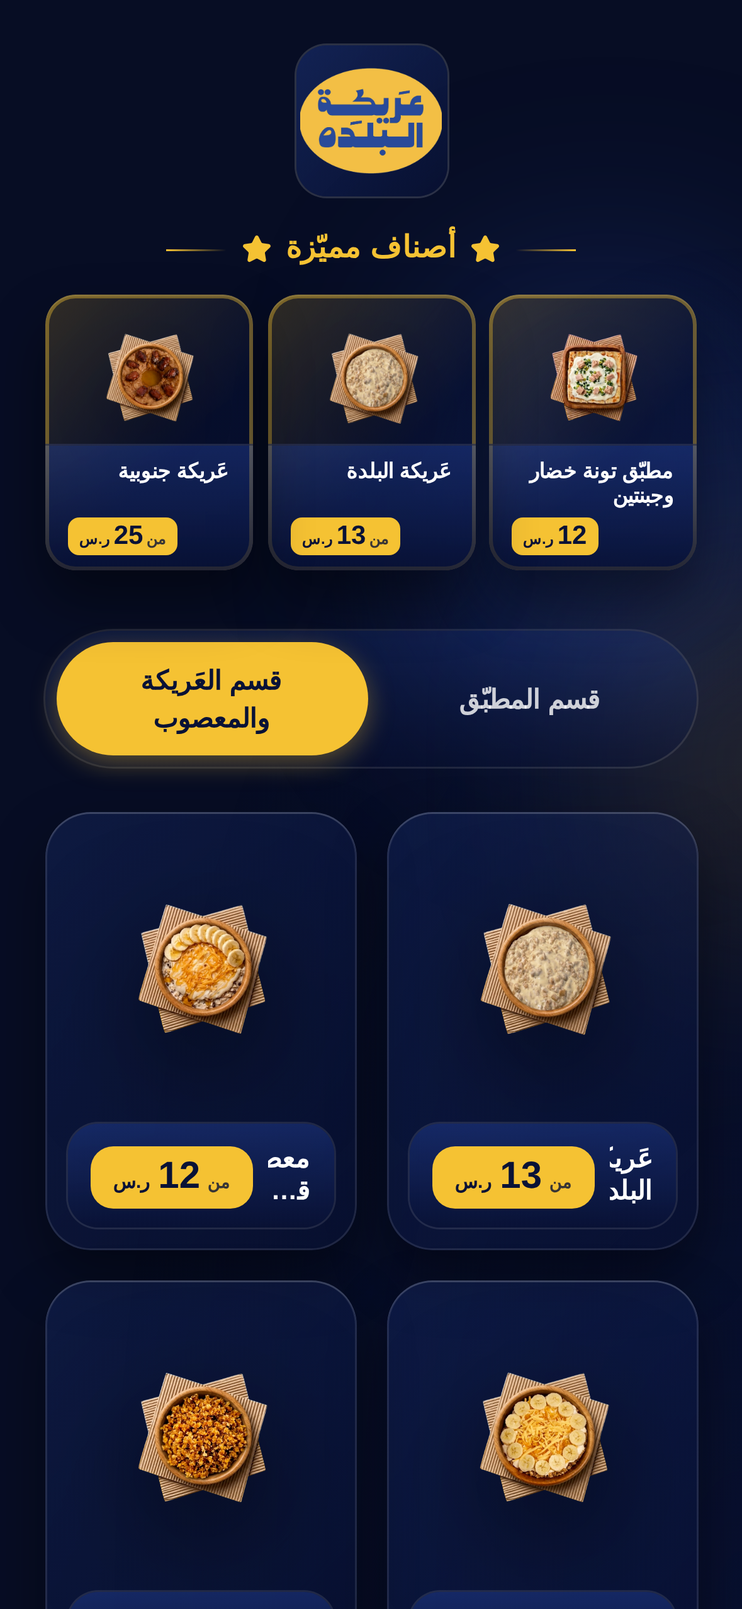
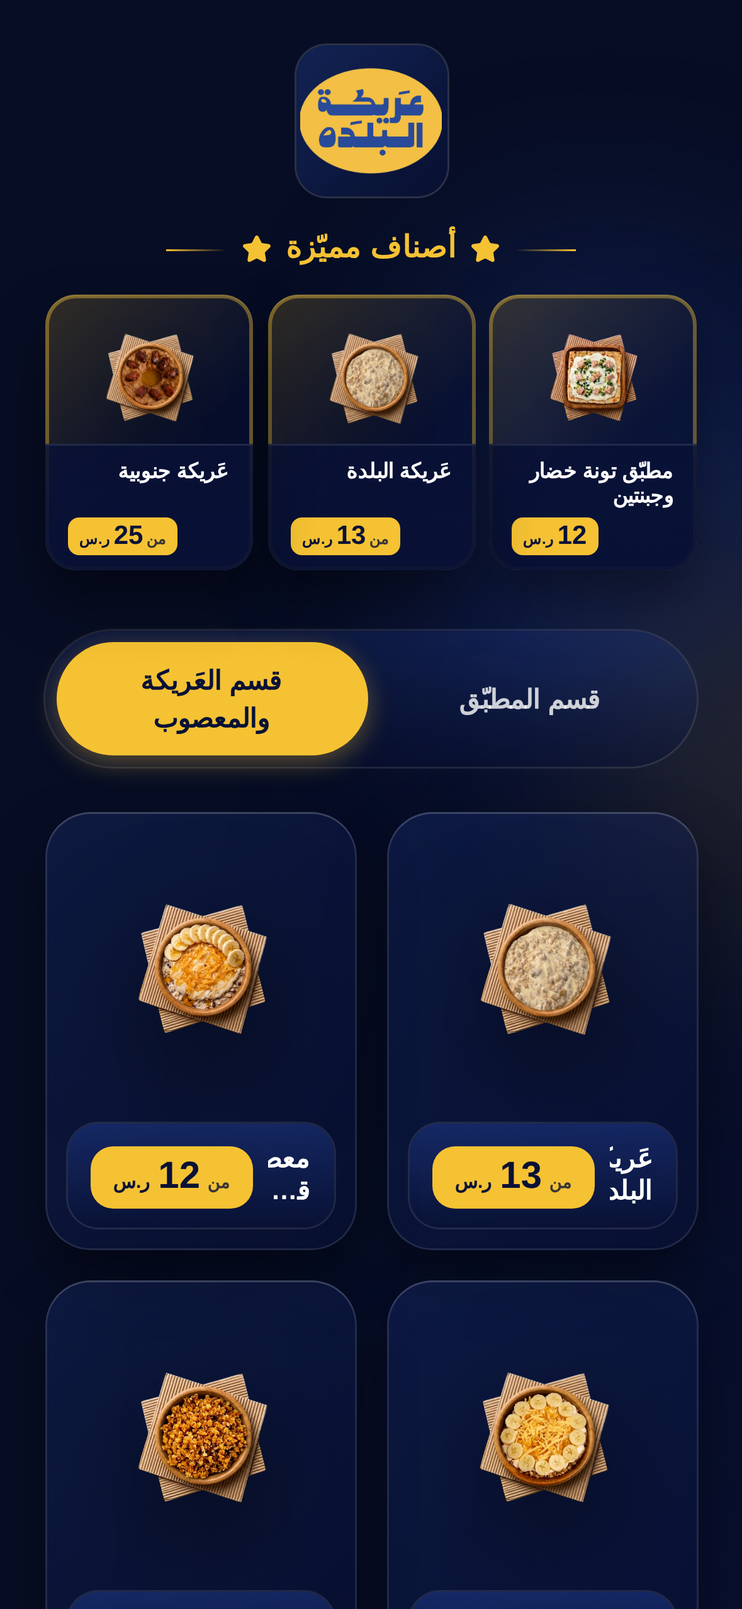
fix(web): featured strip explicitly w-full + much more opaque
The previous fix removed the mx-2/mb-2 margins, but the strip's
gradient was so transparent (rgba(47,85,196,0.32) → rgba(9,18,54,0.70))
that it blended into the card's own gradient. Visually it looked like
the strip only existed where the text/chip sat, with the rest of the
bottom band reading as the underlying card gradient. The user kept
catching this on cards with short names where the empty room was big.

Two-part fix:
- Added explicit w-full on the strip element so its width can never
  be misinterpreted by the flexbox cross-axis algorithm.
- Bumped the strip's background to nearly-opaque deep navy
  (rgba(9,18,54,0.85 → 0.95)). The band now reads as a clearly
  separate, unambiguous full-width footer on every card regardless of
  name length.

Verified with a fresh phone-1366×1024 Playwright capture — all three
featured cards now show an identical dark strip running edge-to-edge.

https://claude.ai/code/session_01Tjv9deCadTK9xL9Nd7REno

Changed region(s): [[0.0611, 0.2782, 0.9466, 0.34]]

diff --git a/docs/assets/index-ChkNGgoA.css b/docs/assets/index-ChkNGgoA.css
@@ -1,0 +1,1 @@
+*,:before,:after{--tw-border-spacing-x: 0;--tw-border-spacing-y: 0;--tw-translate-x: 0;--tw-translate-y: 0;--tw-rotate: 0;--tw-skew-x: 0;--tw-skew-y: 0;--tw-scale-x: 1;--tw-scale-y: 1;--tw-pan-x: ;--tw-pan-y: ;--tw-pinch-zoom: ;--tw-scroll-snap-strictness: proximity;--tw-gradient-from-position: ;--tw-gradient-via-position: ;--tw-gradient-to-position: ;--tw-ordinal: ;--tw-slashed-zero: ;--tw-numeric-figure: ;--tw-numeric-spacing: ;--tw-numeric-fraction: ;--tw-ring-inset: ;--tw-ring-offset-width: 0px;--tw-ring-offset-color: #fff;--tw-ring-color: rgb(59 130 246 / .5);--tw-ring-offset-shadow: 0 0 #0000;--tw-ring-shadow: 0 0 #0000;--tw-shadow: 0 0 #0000;--tw-shadow-colored: 0 0 #0000;--tw-blur: ;--tw-brightness: ;--tw-contrast: ;--tw-grayscale: ;--tw-hue-rotate: ;--tw-invert: ;--tw-saturate: ;--tw-sepia: ;--tw-drop-shadow: ;--tw-backdrop-blur: ;--tw-backdrop-brightness: ;--tw-backdrop-contrast: ;--tw-backdrop-grayscale: ;--tw-backdrop-hue-rotate: ;--tw-backdrop-invert: ;--tw-backdrop-opacity: ;--tw-backdrop-saturate: ;--tw-backdrop-sepia: ;--tw-contain-size: ;--tw-contain-layout: ;--tw-contain-paint: ;--tw-contain-style: }::backdrop{--tw-border-spacing-x: 0;--tw-border-spacing-y: 0;--tw-translate-x: 0;--tw-translate-y: 0;--tw-rotate: 0;--tw-skew-x: 0;--tw-skew-y: 0;--tw-scale-x: 1;--tw-scale-y: 1;--tw-pan-x: ;--tw-pan-y: ;--tw-pinch-zoom: ;--tw-scroll-snap-strictness: proximity;--tw-gradient-from-position: ;--tw-gradient-via-position: ;--tw-gradient-to-position: ;--tw-ordinal: ;--tw-slashed-zero: ;--tw-numeric-figure: ;--tw-numeric-spacing: ;--tw-numeric-fraction: ;--tw-ring-inset: ;--tw-ring-offset-width: 0px;--tw-ring-offset-color: #fff;--tw-ring-color: rgb(59 130 246 / .5);--tw-ring-offset-shadow: 0 0 #0000;--tw-ring-shadow: 0 0 #0000;--tw-shadow: 0 0 #0000;--tw-shadow-colored: 0 0 #0000;--tw-blur: ;--tw-brightness: ;--tw-contrast: ;--tw-grayscale: ;--tw-hue-rotate: ;--tw-invert: ;--tw-saturate: ;--tw-sepia: ;--tw-drop-shadow: ;--tw-backdrop-blur: ;--tw-backdrop-brightness: ;--tw-backdrop-contrast: ;--tw-backdrop-grayscale: ;--tw-backdrop-hue-rotate: ;--tw-backdrop-invert: ;--tw-backdrop-opacity: ;--tw-backdrop-saturate: ;--tw-backdrop-sepia: ;--tw-contain-size: ;--tw-contain-layout: ;--tw-contain-paint: ;--tw-contain-style: }*,:before,:after{box-sizing:border-box;border-width:0;border-style:solid;border-color:#e5e7eb}:before,:after{--tw-content: ""}html,:host{line-height:1.5;-webkit-text-size-adjust:100%;-moz-tab-size:4;-o-tab-size:4;tab-size:4;font-family:ui-sans-serif,system-ui,sans-serif,"Apple Color Emoji","Segoe UI Emoji",Segoe UI Symbol,"Noto Color Emoji";font-feature-settings:normal;font-variation-settings:normal;-webkit-tap-highlight-color:transparent}body{margin:0;line-height:inherit}hr{height:0;color:inherit;border-top-width:1px}abbr:where([title]){-webkit-text-decoration:underline dotted;text-decoration:underline dotted}h1,h2,h3,h4,h5,h6{font-size:inherit;font-weight:inherit}a{color:inherit;text-decoration:inherit}b,strong{font-weight:bolder}code,kbd,samp,pre{font-family:ui-monospace,SFMono-Regular,Menlo,Monaco,Consolas,Liberation Mono,Courier New,monospace;font-feature-settings:normal;font-variation-settings:normal;font-size:1em}small{font-size:80%}sub,sup{font-size:75%;line-height:0;position:relative;vertical-align:baseline}sub{bottom:-.25em}sup{top:-.5em}table{text-indent:0;border-color:inherit;border-collapse:collapse}button,input,optgroup,select,textarea{font-family:inherit;font-feature-settings:inherit;font-variation-settings:inherit;font-size:100%;font-weight:inherit;line-height:inherit;letter-spacing:inherit;color:inherit;margin:0;padding:0}button,select{text-transform:none}button,input:where([type=button]),input:where([type=reset]),input:where([type=submit]){-webkit-appearance:button;background-color:transparent;background-image:none}:-moz-focusring{outline:auto}:-moz-ui-invalid{box-shadow:none}progress{vertical-align:baseline}::-webkit-inner-spin-button,::-webkit-outer-spin-button{height:auto}[type=search]{-webkit-appearance:textfield;outline-offset:-2px}::-webkit-search-decoration{-webkit-appearance:none}::-webkit-file-upload-button{-webkit-appearance:button;font:inherit}summary{display:list-item}blockquote,dl,dd,h1,h2,h3,h4,h5,h6,hr,figure,p,pre{margin:0}fieldset{margin:0;padding:0}legend{padding:0}ol,ul,menu{list-style:none;margin:0;padding:0}dialog{padding:0}textarea{resize:vertical}input::-moz-placeholder,textarea::-moz-placeholder{opacity:1;color:#9ca3af}input::placeholder,textarea::placeholder{opacity:1;color:#9ca3af}button,[role=button]{cursor:pointer}:disabled{cursor:default}img,svg,video,canvas,audio,iframe,embed,object{display:block;vertical-align:middle}img,video{max-width:100%;height:auto}[hidden]:where(:not([hidden=until-found])){display:none}html,body,#root{height:100%;width:100%}body{font-family:Cairo,sans-serif;background:#070d24;color:#fff;overflow:hidden;-webkit-tap-highlight-color:transparent}.container{width:100%}@media(min-width:640px){.container{max-width:640px}}@media(min-width:768px){.container{max-width:768px}}@media(min-width:1024px){.container{max-width:1024px}}@media(min-width:1280px){.container{max-width:1280px}}@media(min-width:1536px){.container{max-width:1536px}}.pointer-events-none{pointer-events:none}.visible{visibility:visible}.static{position:static}.fixed{position:fixed}.absolute{position:absolute}.relative{position:relative}.inset-0{top:0;right:0;bottom:0;left:0}.left-5{left:1.25rem}.top-5{top:1.25rem}.z-10{z-index:10}.z-50{z-index:50}.mx-3{margin-left:.75rem;margin-right:.75rem}.mx-auto{margin-left:auto;margin-right:auto}.my-5{margin-top:1.25rem;margin-bottom:1.25rem}.mb-3{margin-bottom:.75rem}.mt-1{margin-top:.25rem}.mt-6{margin-top:1.5rem}.mt-8{margin-top:2rem}.line-clamp-2{overflow:hidden;display:-webkit-box;-webkit-box-orient:vertical;-webkit-line-clamp:2}.flex{display:flex}.grid{display:grid}.aspect-\[3\/4\]{aspect-ratio:3/4}.aspect-square{aspect-ratio:1 / 1}.h-1{height:.25rem}.h-12{height:3rem}.h-14{height:3.5rem}.h-20{height:5rem}.h-4{height:1rem}.h-5{height:1.25rem}.h-\[45vh\]{height:45vh}.h-\[55vh\]{height:55vh}.h-full{height:100%}.h-px{height:1px}.max-h-full{max-height:100%}.min-h-\[2\.4em\]{min-height:2.4em}.w-12{width:3rem}.w-20{width:5rem}.w-4{width:1rem}.w-5{width:1.25rem}.w-8{width:2rem}.w-\[45vw\]{width:45vw}.w-\[55vw\]{width:55vw}.w-auto{width:auto}.w-full{width:100%}.min-w-0{min-width:0px}.max-w-2xl{max-width:42rem}.max-w-6xl{max-width:72rem}.max-w-7xl{max-width:80rem}.max-w-full{max-width:100%}.max-w-md{max-width:28rem}.flex-1{flex:1 1 0%}.flex-shrink-0,.shrink-0{flex-shrink:0}.scale-\[1\.04\]{--tw-scale-x: 1.04;--tw-scale-y: 1.04;transform:translate(var(--tw-translate-x),var(--tw-translate-y)) rotate(var(--tw-rotate)) skew(var(--tw-skew-x)) skewY(var(--tw-skew-y)) scaleX(var(--tw-scale-x)) scaleY(var(--tw-scale-y))}.transform{transform:translate(var(--tw-translate-x),var(--tw-translate-y)) rotate(var(--tw-rotate)) skew(var(--tw-skew-x)) skewY(var(--tw-skew-y)) scaleX(var(--tw-scale-x)) scaleY(var(--tw-scale-y))}.grid-cols-2{grid-template-columns:repeat(2,minmax(0,1fr))}.grid-cols-3{grid-template-columns:repeat(3,minmax(0,1fr))}.flex-col{flex-direction:column}.place-items-center{place-items:center}.items-end{align-items:flex-end}.items-center{align-items:center}.items-baseline{align-items:baseline}.items-stretch{align-items:stretch}.justify-center{justify-content:center}.justify-between{justify-content:space-between}.gap-0\.5{gap:.125rem}.gap-1{gap:.25rem}.gap-2{gap:.5rem}.gap-3{gap:.75rem}.gap-4{gap:1rem}.self-end{align-self:flex-end}.overflow-hidden{overflow:hidden}.overflow-y-auto{overflow-y:auto}.overscroll-none{overscroll-behavior:none}.rounded-2xl{border-radius:1rem}.rounded-3xl{border-radius:1.5rem}.rounded-\[36px\]{border-radius:36px}.rounded-full{border-radius:9999px}.rounded-md{border-radius:.375rem}.rounded-xl{border-radius:.75rem}.rounded-b-2xl{border-bottom-right-radius:1rem;border-bottom-left-radius:1rem}.border{border-width:1px}.border-t{border-top-width:1px}.border-white\/10{border-color:#ffffff1a}.bg-\[\#070d24\]{--tw-bg-opacity: 1;background-color:rgb(7 13 36 / var(--tw-bg-opacity, 1))}.bg-black\/60{background-color:#0009}.bg-brand-yellow{--tw-bg-opacity: 1;background-color:rgb(245 194 51 / var(--tw-bg-opacity, 1))}.bg-white\/10{background-color:#ffffff1a}.bg-white\/15{background-color:#ffffff26}.bg-gradient-to-l{background-image:linear-gradient(to left,var(--tw-gradient-stops))}.bg-gradient-to-r{background-image:linear-gradient(to right,var(--tw-gradient-stops))}.from-brand-yellow{--tw-gradient-from: #f5c233 var(--tw-gradient-from-position);--tw-gradient-to: rgb(245 194 51 / 0) var(--tw-gradient-to-position);--tw-gradient-stops: var(--tw-gradient-from), var(--tw-gradient-to)}.to-transparent{--tw-gradient-to: transparent var(--tw-gradient-to-position)}.fill-brand-yellow{fill:#f5c233}.object-contain{-o-object-fit:contain;object-fit:contain}.p-1\.5{padding:.375rem}.p-3{padding:.75rem}.p-4{padding:1rem}.p-5{padding:1.25rem}.px-1\.5{padding-left:.375rem;padding-right:.375rem}.px-2{padding-left:.5rem;padding-right:.5rem}.px-3{padding-left:.75rem;padding-right:.75rem}.px-6{padding-left:1.5rem;padding-right:1.5rem}.py-0\.5{padding-top:.125rem;padding-bottom:.125rem}.py-1\.5{padding-top:.375rem;padding-bottom:.375rem}.py-2{padding-top:.5rem;padding-bottom:.5rem}.py-2\.5{padding-top:.625rem;padding-bottom:.625rem}.pb-1{padding-bottom:.25rem}.pb-10{padding-bottom:2.5rem}.pb-3{padding-bottom:.75rem}.pt-10{padding-top:2.5rem}.pt-3{padding-top:.75rem}.pt-4{padding-top:1rem}.pt-6{padding-top:1.5rem}.text-center{text-align:center}.text-right{text-align:right}.font-cairo{font-family:Cairo,sans-serif}.font-tajawal{font-family:Tajawal,sans-serif}.text-2xl{font-size:1.5rem;line-height:2rem}.text-3xl{font-size:1.875rem;line-height:2.25rem}.text-\[10px\]{font-size:10px}.text-\[11px\]{font-size:11px}.text-\[8px\]{font-size:8px}.text-\[9px\]{font-size:9px}.text-base{font-size:1rem;line-height:1.5rem}.text-sm{font-size:.875rem;line-height:1.25rem}.text-xl{font-size:1.25rem;line-height:1.75rem}.text-xs{font-size:.75rem;line-height:1rem}.font-black{font-weight:900}.font-bold{font-weight:700}.leading-\[1\.2\]{line-height:1.2}.leading-none{line-height:1}.leading-tight{line-height:1.25}.tracking-wide{letter-spacing:.025em}.text-brand-blueDeep{--tw-text-opacity: 1;color:rgb(9 18 54 / var(--tw-text-opacity, 1))}.text-brand-yellow{--tw-text-opacity: 1;color:rgb(245 194 51 / var(--tw-text-opacity, 1))}.text-white{--tw-text-opacity: 1;color:rgb(255 255 255 / var(--tw-text-opacity, 1))}.text-white\/80{color:#fffc}.antialiased{-webkit-font-smoothing:antialiased;-moz-osx-font-smoothing:grayscale}.opacity-80{opacity:.8}.shadow-\[0_4px_14px_rgba\(245\,194\,51\,0\.35\)\]{--tw-shadow: 0 4px 14px rgba(245,194,51,.35);--tw-shadow-colored: 0 4px 14px var(--tw-shadow-color);box-shadow:var(--tw-ring-offset-shadow, 0 0 #0000),var(--tw-ring-shadow, 0 0 #0000),var(--tw-shadow)}.outline-none{outline:2px solid transparent;outline-offset:2px}.ring{--tw-ring-offset-shadow: var(--tw-ring-inset) 0 0 0 var(--tw-ring-offset-width) var(--tw-ring-offset-color);--tw-ring-shadow: var(--tw-ring-inset) 0 0 0 calc(3px + var(--tw-ring-offset-width)) var(--tw-ring-color);box-shadow:var(--tw-ring-offset-shadow),var(--tw-ring-shadow),var(--tw-shadow, 0 0 #0000)}.ring-1{--tw-ring-offset-shadow: var(--tw-ring-inset) 0 0 0 var(--tw-ring-offset-width) var(--tw-ring-offset-color);--tw-ring-shadow: var(--tw-ring-inset) 0 0 0 calc(1px + var(--tw-ring-offset-width)) var(--tw-ring-color);box-shadow:var(--tw-ring-offset-shadow),var(--tw-ring-shadow),var(--tw-shadow, 0 0 #0000)}.ring-2{--tw-ring-offset-shadow: var(--tw-ring-inset) 0 0 0 var(--tw-ring-offset-width) var(--tw-ring-offset-color);--tw-ring-shadow: var(--tw-ring-inset) 0 0 0 calc(2px + var(--tw-ring-offset-width)) var(--tw-ring-color);box-shadow:var(--tw-ring-offset-shadow),var(--tw-ring-shadow),var(--tw-shadow, 0 0 #0000)}.ring-inset{--tw-ring-inset: inset}.ring-brand-yellow\/0{--tw-ring-color: rgb(245 194 51 / 0)}.ring-brand-yellow\/40{--tw-ring-color: rgb(245 194 51 / .4)}.ring-white\/10{--tw-ring-color: rgb(255 255 255 / .1)}.ring-white\/15{--tw-ring-color: rgb(255 255 255 / .15)}.ring-white\/20{--tw-ring-color: rgb(255 255 255 / .2)}.ring-white\/25{--tw-ring-color: rgb(255 255 255 / .25)}.blur{--tw-blur: blur(8px);filter:var(--tw-blur) var(--tw-brightness) var(--tw-contrast) var(--tw-grayscale) var(--tw-hue-rotate) var(--tw-invert) var(--tw-saturate) var(--tw-sepia) var(--tw-drop-shadow)}.drop-shadow-\[0_18px_28px_rgba\(0\,0\,0\,0\.55\)\]{--tw-drop-shadow: drop-shadow(0 18px 28px rgba(0,0,0,.55));filter:var(--tw-blur) var(--tw-brightness) var(--tw-contrast) var(--tw-grayscale) var(--tw-hue-rotate) var(--tw-invert) var(--tw-saturate) var(--tw-sepia) var(--tw-drop-shadow)}.drop-shadow-\[0_36px_60px_rgba\(0\,0\,0\,0\.55\)\]{--tw-drop-shadow: drop-shadow(0 36px 60px rgba(0,0,0,.55));filter:var(--tw-blur) var(--tw-brightness) var(--tw-contrast) var(--tw-grayscale) var(--tw-hue-rotate) var(--tw-invert) var(--tw-saturate) var(--tw-sepia) var(--tw-drop-shadow)}.filter{filter:var(--tw-blur) var(--tw-brightness) var(--tw-contrast) var(--tw-grayscale) var(--tw-hue-rotate) var(--tw-invert) var(--tw-saturate) var(--tw-sepia) var(--tw-drop-shadow)}.backdrop-blur{--tw-backdrop-blur: blur(8px);-webkit-backdrop-filter:var(--tw-backdrop-blur) var(--tw-backdrop-brightness) var(--tw-backdrop-contrast) var(--tw-backdrop-grayscale) var(--tw-backdrop-hue-rotate) var(--tw-backdrop-invert) var(--tw-backdrop-opacity) var(--tw-backdrop-saturate) var(--tw-backdrop-sepia);backdrop-filter:var(--tw-backdrop-blur) var(--tw-backdrop-brightness) var(--tw-backdrop-contrast) var(--tw-backdrop-grayscale) var(--tw-backdrop-hue-rotate) var(--tw-backdrop-invert) var(--tw-backdrop-opacity) var(--tw-backdrop-saturate) var(--tw-backdrop-sepia)}.backdrop-blur-3xl{--tw-backdrop-blur: blur(64px);-webkit-backdrop-filter:var(--tw-backdrop-blur) var(--tw-backdrop-brightness) var(--tw-backdrop-contrast) var(--tw-backdrop-grayscale) var(--tw-backdrop-hue-rotate) var(--tw-backdrop-invert) var(--tw-backdrop-opacity) var(--tw-backdrop-saturate) var(--tw-backdrop-sepia);backdrop-filter:var(--tw-backdrop-blur) var(--tw-backdrop-brightness) var(--tw-backdrop-contrast) var(--tw-backdrop-grayscale) var(--tw-backdrop-hue-rotate) var(--tw-backdrop-invert) var(--tw-backdrop-opacity) var(--tw-backdrop-saturate) var(--tw-backdrop-sepia)}.backdrop-blur-md{--tw-backdrop-blur: blur(12px);-webkit-backdrop-filter:var(--tw-backdrop-blur) var(--tw-backdrop-brightness) var(--tw-backdrop-contrast) var(--tw-backdrop-grayscale) var(--tw-backdrop-hue-rotate) var(--tw-backdrop-invert) var(--tw-backdrop-opacity) var(--tw-backdrop-saturate) var(--tw-backdrop-sepia);backdrop-filter:var(--tw-backdrop-blur) var(--tw-backdrop-brightness) var(--tw-backdrop-contrast) var(--tw-backdrop-grayscale) var(--tw-backdrop-hue-rotate) var(--tw-backdrop-invert) var(--tw-backdrop-opacity) var(--tw-backdrop-saturate) var(--tw-backdrop-sepia)}.backdrop-filter{-webkit-backdrop-filter:var(--tw-backdrop-blur) var(--tw-backdrop-brightness) var(--tw-backdrop-contrast) var(--tw-backdrop-grayscale) var(--tw-backdrop-hue-rotate) var(--tw-backdrop-invert) var(--tw-backdrop-opacity) var(--tw-backdrop-saturate) var(--tw-backdrop-sepia);backdrop-filter:var(--tw-backdrop-blur) var(--tw-backdrop-brightness) var(--tw-backdrop-contrast) var(--tw-backdrop-grayscale) var(--tw-backdrop-hue-rotate) var(--tw-backdrop-invert) var(--tw-backdrop-opacity) var(--tw-backdrop-saturate) var(--tw-backdrop-sepia)}.transition{transition-property:color,background-color,border-color,text-decoration-color,fill,stroke,opacity,box-shadow,transform,filter,backdrop-filter;transition-timing-function:cubic-bezier(.4,0,.2,1);transition-duration:.15s}.transition-\[box-shadow\]{transition-property:box-shadow;transition-timing-function:cubic-bezier(.4,0,.2,1);transition-duration:.15s}.transition-colors{transition-property:color,background-color,border-color,text-decoration-color,fill,stroke;transition-timing-function:cubic-bezier(.4,0,.2,1);transition-duration:.15s}.transition-transform{transition-property:transform;transition-timing-function:cubic-bezier(.4,0,.2,1);transition-duration:.15s}.duration-200{transition-duration:.2s}.ease-out{transition-timing-function:cubic-bezier(0,0,.2,1)}.will-change-transform{will-change:transform}.hover\:-translate-y-1:hover{--tw-translate-y: -.25rem;transform:translate(var(--tw-translate-x),var(--tw-translate-y)) rotate(var(--tw-rotate)) skew(var(--tw-skew-x)) skewY(var(--tw-skew-y)) scaleX(var(--tw-scale-x)) scaleY(var(--tw-scale-y))}.hover\:bg-white\/20:hover{background-color:#fff3}.hover\:text-white:hover{--tw-text-opacity: 1;color:rgb(255 255 255 / var(--tw-text-opacity, 1))}.active\:scale-90:active{--tw-scale-x: .9;--tw-scale-y: .9;transform:translate(var(--tw-translate-x),var(--tw-translate-y)) rotate(var(--tw-rotate)) skew(var(--tw-skew-x)) skewY(var(--tw-skew-y)) scaleX(var(--tw-scale-x)) scaleY(var(--tw-scale-y))}.active\:scale-\[0\.98\]:active{--tw-scale-x: .98;--tw-scale-y: .98;transform:translate(var(--tw-translate-x),var(--tw-translate-y)) rotate(var(--tw-rotate)) skew(var(--tw-skew-x)) skewY(var(--tw-skew-y)) scaleX(var(--tw-scale-x)) scaleY(var(--tw-scale-y))}.group:hover .group-hover\:ring-brand-yellow\/40{--tw-ring-color: rgb(245 194 51 / .4)}.group:hover .group-hover\:ring-brand-yellow\/70{--tw-ring-color: rgb(245 194 51 / .7)}@media(min-width:640px){.sm\:line-clamp-1{overflow:hidden;display:-webkit-box;-webkit-box-orient:vertical;-webkit-line-clamp:1}.sm\:h-5{height:1.25rem}.sm\:min-h-0{min-height:0px}.sm\:w-16{width:4rem}.sm\:w-5{width:1.25rem}.sm\:flex-row{flex-direction:row}.sm\:items-center{align-items:center}.sm\:justify-between{justify-content:space-between}.sm\:gap-1{gap:.25rem}.sm\:gap-2{gap:.5rem}.sm\:gap-3{gap:.75rem}.sm\:gap-4{gap:1rem}.sm\:self-auto{align-self:auto}.sm\:rounded-3xl{border-radius:1.5rem}.sm\:rounded-lg{border-radius:.5rem}.sm\:rounded-b-3xl{border-bottom-right-radius:1.5rem;border-bottom-left-radius:1.5rem}.sm\:p-7{padding:1.75rem}.sm\:px-2{padding-left:.5rem;padding-right:.5rem}.sm\:px-3{padding-left:.75rem;padding-right:.75rem}.sm\:py-1{padding-top:.25rem;padding-bottom:.25rem}.sm\:py-2\.5{padding-top:.625rem;padding-bottom:.625rem}.sm\:pb-4{padding-bottom:1rem}.sm\:pt-12{padding-top:3rem}.sm\:pt-4{padding-top:1rem}.sm\:text-\[9px\]{font-size:9px}.sm\:text-lg{font-size:1.125rem;line-height:1.75rem}.sm\:text-sm{font-size:.875rem;line-height:1.25rem}.sm\:text-xl{font-size:1.25rem;line-height:1.75rem}}@media(min-width:768px){.md\:order-1{order:1}.md\:order-2{order:2}.md\:aspect-auto{aspect-ratio:auto}.md\:h-16{height:4rem}.md\:h-24{height:6rem}.md\:h-full{height:100%}.md\:max-h-\[88vh\]{max-height:88vh}.md\:max-h-full{max-height:100%}.md\:w-24{width:6rem}.md\:w-auto{width:auto}.md\:max-w-full{max-width:100%}.md\:flex-1{flex:1 1 0%}.md\:grid-cols-3{grid-template-columns:repeat(3,minmax(0,1fr))}.md\:flex-row{flex-direction:row}.md\:items-stretch{align-items:stretch}.md\:gap-4{gap:1rem}.md\:gap-8{gap:2rem}.md\:p-10{padding:2.5rem}.md\:px-10{padding-left:2.5rem;padding-right:2.5rem}.md\:pt-0{padding-top:0}.md\:pt-8{padding-top:2rem}.md\:text-2xl{font-size:1.5rem;line-height:2rem}.md\:text-4xl{font-size:2.25rem;line-height:2.5rem}.md\:text-base{font-size:1rem;line-height:1.5rem}.md\:text-sm{font-size:.875rem;line-height:1.25rem}.md\:text-xl{font-size:1.25rem;line-height:1.75rem}}@media(min-width:1024px){.lg\:grid-cols-4{grid-template-columns:repeat(4,minmax(0,1fr))}}

diff --git a/docs/assets/index-Cw_ZRFd0.js b/docs/assets/index-Cw_ZRFd0.js
@@ -84,4 +84,4 @@ Error generating stack: `+a.message+`
  *
  * This source code is licensed under the ISC license.
  * See the LICENSE file in the root directory of this source tree.
- */const hA=Ig("X",[["path",{d:"M18 6 6 18",key:"1bl5f8"}],["path",{d:"m6 6 12 12",key:"d8bk6v"}]]),dA=({dish:i,onClose:l})=>H.jsx(pn.div,{initial:{opacity:0},animate:{opacity:1},exit:{opacity:0},transition:{duration:.25},onClick:l,className:"fixed inset-0 z-50 grid place-items-center bg-black/60 p-5 backdrop-blur-md",children:H.jsxs(pn.div,{initial:{y:60,scale:.95,opacity:0},animate:{y:0,scale:1,opacity:1},exit:{y:40,scale:.95,opacity:0},transition:{type:"spring",damping:24,stiffness:240},onClick:u=>u.stopPropagation(),className:"relative flex w-full max-w-6xl flex-col gap-4 overflow-hidden rounded-[36px] p-5 backdrop-blur-3xl sm:p-7 md:h-full md:max-h-[88vh] md:flex-row md:items-stretch md:gap-8 md:p-10",style:{background:"linear-gradient(135deg, rgba(47,85,196,0.30) 0%, rgba(9,18,54,0.55) 100%)",boxShadow:"0 36px 80px rgba(0, 0, 0, 0.55)",border:"1px solid rgba(255, 255, 255, 0.18)"},children:[H.jsx("button",{onClick:l,"aria-label":"إغلاق",className:"absolute left-5 top-5 z-10 grid h-12 w-12 place-items-center rounded-full bg-white/15 text-white ring-1 ring-white/25 backdrop-blur transition-transform hover:bg-white/20 active:scale-90",children:H.jsx(hA,{className:"h-5 w-5"})}),H.jsx("div",{className:"flex w-full justify-center pt-10 sm:pt-12 md:order-2 md:flex-1 md:pt-0",children:H.jsx(pn.img,{initial:{scale:.92,opacity:0},animate:{scale:1,opacity:1},transition:{delay:.1,type:"spring",damping:18,stiffness:110},src:i.image,alt:i.nameAr,className:"aspect-square w-full max-w-md object-contain drop-shadow-[0_36px_60px_rgba(0,0,0,0.55)] md:aspect-auto md:h-full md:max-h-full md:w-auto md:max-w-full"})}),H.jsxs("div",{className:"flex flex-col justify-center md:order-1 md:flex-1",dir:"rtl",children:[H.jsx(pn.h2,{initial:{x:24,opacity:0},animate:{x:0,opacity:1},transition:{delay:.2,type:"spring",damping:18,stiffness:120},className:"font-cairo font-black leading-tight text-white",style:{fontSize:"clamp(2.25rem, 4.5vw, 4rem)"},children:i.nameAr}),H.jsx("div",{className:"my-5 h-1 w-20 rounded-full bg-brand-yellow"}),i.prices&&i.prices.length>0?H.jsx(mA,{prices:i.prices}):H.jsx(pA,{price:i.price??"—"})]})]})}),mA=({prices:i})=>H.jsx("div",{className:"grid grid-cols-3 gap-3",children:i.map((l,u)=>H.jsxs(pn.div,{initial:{y:16,opacity:0},animate:{y:0,opacity:1},transition:{delay:.25+u*.07,type:"spring",damping:20,stiffness:140},className:"rounded-2xl bg-white/10 p-4 ring-1 ring-white/20 backdrop-blur",children:[H.jsx("div",{className:"font-cairo text-sm font-bold text-brand-yellow md:text-base",children:l.label}),H.jsxs("div",{className:"mt-1 flex items-baseline gap-1 font-cairo",children:[H.jsx("span",{className:"text-3xl font-black text-white md:text-4xl",children:l.value.split(" ")[0]}),H.jsx("span",{className:"text-xs font-bold text-brand-yellow md:text-sm",children:"ر.س"})]})]},l.label))}),pA=({price:i})=>{const[l,...u]=i.split(" ");return H.jsxs(pn.div,{initial:{scale:.9,opacity:0},animate:{scale:1,opacity:1},transition:{delay:.25,type:"spring",damping:18,stiffness:110},className:"flex items-baseline gap-2",children:[H.jsx("span",{className:"font-cairo font-black leading-none text-brand-yellow",style:{fontSize:"clamp(3rem, 7vw, 6rem)"},children:l}),H.jsx("span",{className:"font-cairo text-2xl font-bold text-brand-yellow md:text-4xl",children:u.join(" ")||"ر.س"})]})},yA=()=>H.jsx("header",{className:"flex flex-shrink-0 items-center justify-center px-6 pt-6 md:pt-8",children:H.jsx("div",{className:"grid h-20 w-20 place-items-center overflow-hidden rounded-2xl ring-1 ring-white/15 md:h-24 md:w-24",style:{background:"linear-gradient(135deg, rgba(47,85,196,0.30) 0%, rgba(9,18,54,0.65) 100%)"},children:H.jsx("img",{src:"logo.png",alt:"عَريكة البلدة",className:"h-14 w-auto md:h-16"})})}),gA=()=>H.jsxs("div",{className:"pointer-events-none absolute inset-0 overflow-hidden bg-[#070d24]",children:[H.jsx(pn.div,{className:"absolute h-[55vh] w-[55vw] rounded-full will-change-transform",style:{background:"radial-gradient(circle, rgba(47, 85, 196, 0.45), transparent 65%)",filter:"blur(45px)",transform:"translate3d(0,0,0)"},initial:{x:"15%",y:"5%"},animate:{x:["15%","35%","15%"],y:["5%","15%","5%"]},transition:{duration:50,ease:"easeInOut",repeat:1/0}}),H.jsx(pn.div,{className:"absolute h-[45vh] w-[45vw] rounded-full will-change-transform",style:{background:"radial-gradient(circle, rgba(245, 194, 51, 0.22), transparent 70%)",filter:"blur(50px)",transform:"translate3d(0,0,0)"},initial:{x:"60%",y:"55%"},animate:{x:["60%","40%","60%"],y:["55%","65%","55%"]},transition:{duration:60,ease:"easeInOut",repeat:1/0}}),H.jsx("div",{className:"absolute inset-0",style:{background:"radial-gradient(ellipse at bottom right, rgba(9,18,54,0.6), transparent 60%)"}})]}),vA=({active:i,categories:l,onChange:u})=>H.jsx("div",{className:"mx-auto grid w-full max-w-2xl grid-cols-2 gap-1 rounded-full p-1.5 ring-1 ring-white/10",style:{background:"linear-gradient(180deg, rgba(47,85,196,0.18) 0%, rgba(9,18,54,0.40) 100%)"},role:"tablist",children:l.map(o=>{const c=o.id===i;return H.jsx("button",{role:"tab","aria-selected":c,onClick:()=>u(o.id),className:`rounded-full px-3 py-2.5 text-center font-cairo text-sm font-bold transition-colors duration-200 ${c?"bg-brand-yellow text-brand-blueDeep shadow-[0_4px_14px_rgba(245,194,51,0.35)]":"text-white/80 hover:text-white"}`,children:o.labelAr},o.id)})}),bA=({dishes:i,onSelect:l})=>H.jsxs("section",{className:"mx-auto w-full max-w-7xl",children:[H.jsxs("div",{className:"flex items-center justify-center gap-2 pb-3 sm:gap-4 sm:pb-4",children:[H.jsx("span",{className:"h-px w-8 bg-gradient-to-l from-brand-yellow to-transparent sm:w-16"}),H.jsx(vy,{className:"h-4 w-4 fill-brand-yellow text-brand-yellow sm:h-5 sm:w-5",strokeWidth:2}),H.jsx("h2",{className:"font-cairo text-base font-black tracking-wide text-brand-yellow sm:text-xl md:text-2xl",children:"أصناف مميّزة"}),H.jsx(vy,{className:"h-4 w-4 fill-brand-yellow text-brand-yellow sm:h-5 sm:w-5",strokeWidth:2}),H.jsx("span",{className:"h-px w-8 bg-gradient-to-r from-brand-yellow to-transparent sm:w-16"})]}),H.jsx("div",{className:"grid grid-cols-3 gap-2 sm:gap-3 md:gap-4",children:i.map(u=>H.jsx(SA,{dish:u,onClick:()=>l(u)},u.image))})]}),SA=({dish:i,onClick:l})=>{const u=i.prices&&i.prices.length>1,o=Wg(i);return H.jsxs("button",{onClick:l,className:"group relative flex aspect-[3/4] flex-col overflow-hidden rounded-2xl text-right outline-none transition-transform duration-200 ease-out will-change-transform hover:-translate-y-1 active:scale-[0.98] sm:rounded-3xl",style:{background:"linear-gradient(135deg, rgba(245,194,51,0.18) 0%, rgba(9,18,54,0.65) 60%, rgba(9,18,54,0.65) 100%)",boxShadow:"0 16px 30px rgba(0, 0, 0, 0.45), inset 0 1px 0 rgba(255, 255, 255, 0.12)"},children:[H.jsx("div",{className:"pointer-events-none absolute inset-0 rounded-2xl ring-2 ring-inset ring-brand-yellow/40 sm:rounded-3xl"}),H.jsx("div",{className:"relative flex flex-1 items-center justify-center px-2 pb-1 pt-3 sm:pt-4",children:H.jsx("img",{src:i.image,alt:i.nameAr,decoding:"async",className:"max-h-full max-w-full object-contain drop-shadow-[0_18px_28px_rgba(0,0,0,0.55)]",style:{transform:"scale(1.06)"}})}),H.jsxs("div",{className:"relative flex flex-shrink-0 flex-col items-stretch gap-1 rounded-b-2xl border-t border-white/10 px-3 py-2 sm:flex-row sm:items-center sm:justify-between sm:gap-2 sm:rounded-b-3xl sm:px-3 sm:py-2.5",style:{background:"linear-gradient(180deg, rgba(47,85,196,0.32) 0%, rgba(9,18,54,0.70) 100%)"},children:[H.jsx("h3",{className:"line-clamp-2 min-h-[2.4em] min-w-0 flex-1 text-right font-cairo text-[11px] font-black leading-[1.2] sm:min-h-0 sm:line-clamp-1 sm:text-sm md:text-base",children:i.nameAr}),H.jsxs("div",{className:"flex shrink-0 items-baseline gap-0.5 self-end rounded-md bg-brand-yellow px-1.5 py-0.5 text-brand-blueDeep sm:gap-1 sm:self-auto sm:rounded-lg sm:px-2 sm:py-1",children:[u?H.jsx("span",{className:"font-tajawal text-[8px] font-bold opacity-80 sm:text-[9px]",children:"من"}):null,H.jsx("span",{className:"font-cairo text-sm font-black leading-none sm:text-lg md:text-xl",children:o}),H.jsx("span",{className:"font-cairo text-[8px] font-bold sm:text-[9px]",children:"ر.س"})]})]}),H.jsx("div",{className:"pointer-events-none absolute inset-0 rounded-2xl ring-2 ring-brand-yellow/0 transition-[box-shadow] duration-200 group-hover:ring-brand-yellow/70 sm:rounded-3xl"})]})},TA=()=>{const[i,l]=G.useState("mutabbaq"),[u,o]=G.useState(null),c=G.useMemo(()=>i==="mutabbaq"?kg:Fg,[i]);return G.useEffect(()=>{Pg.forEach(d=>{const h=new Image;h.src=d.image})},[]),H.jsxs("div",{className:"relative h-full w-full overflow-hidden text-white",children:[H.jsx(gA,{}),H.jsxs("div",{className:"relative z-10 flex h-full flex-col",children:[H.jsx(yA,{}),H.jsxs("main",{className:"flex-1 overflow-y-auto px-6 pb-10 pt-4 md:px-10",children:[H.jsx(bA,{dishes:uA,onSelect:o}),H.jsx("div",{className:"mt-8",children:H.jsx(vA,{active:i,categories:lA,onChange:l})}),H.jsx(ap,{mode:"wait",children:H.jsx(pn.div,{initial:{opacity:0,y:8},animate:{opacity:1,y:0},exit:{opacity:0,y:-4},transition:{duration:.22,ease:"easeOut"},className:"mx-auto mt-6 grid w-full max-w-7xl grid-cols-2 gap-4 md:grid-cols-3 lg:grid-cols-4",children:c.map((d,h)=>H.jsx(oA,{dish:d,index:h,startingPrice:Wg(d),onClick:()=>o(d)},d.image))},i)})]})]}),H.jsx(ap,{children:u?H.jsx(dA,{dish:u,onClose:()=>o(null)}):null})]})};V1.createRoot(document.getElementById("root")).render(H.jsx(G.StrictMode,{children:H.jsx(TA,{})}));
+ */const hA=Ig("X",[["path",{d:"M18 6 6 18",key:"1bl5f8"}],["path",{d:"m6 6 12 12",key:"d8bk6v"}]]),dA=({dish:i,onClose:l})=>H.jsx(pn.div,{initial:{opacity:0},animate:{opacity:1},exit:{opacity:0},transition:{duration:.25},onClick:l,className:"fixed inset-0 z-50 grid place-items-center bg-black/60 p-5 backdrop-blur-md",children:H.jsxs(pn.div,{initial:{y:60,scale:.95,opacity:0},animate:{y:0,scale:1,opacity:1},exit:{y:40,scale:.95,opacity:0},transition:{type:"spring",damping:24,stiffness:240},onClick:u=>u.stopPropagation(),className:"relative flex w-full max-w-6xl flex-col gap-4 overflow-hidden rounded-[36px] p-5 backdrop-blur-3xl sm:p-7 md:h-full md:max-h-[88vh] md:flex-row md:items-stretch md:gap-8 md:p-10",style:{background:"linear-gradient(135deg, rgba(47,85,196,0.30) 0%, rgba(9,18,54,0.55) 100%)",boxShadow:"0 36px 80px rgba(0, 0, 0, 0.55)",border:"1px solid rgba(255, 255, 255, 0.18)"},children:[H.jsx("button",{onClick:l,"aria-label":"إغلاق",className:"absolute left-5 top-5 z-10 grid h-12 w-12 place-items-center rounded-full bg-white/15 text-white ring-1 ring-white/25 backdrop-blur transition-transform hover:bg-white/20 active:scale-90",children:H.jsx(hA,{className:"h-5 w-5"})}),H.jsx("div",{className:"flex w-full justify-center pt-10 sm:pt-12 md:order-2 md:flex-1 md:pt-0",children:H.jsx(pn.img,{initial:{scale:.92,opacity:0},animate:{scale:1,opacity:1},transition:{delay:.1,type:"spring",damping:18,stiffness:110},src:i.image,alt:i.nameAr,className:"aspect-square w-full max-w-md object-contain drop-shadow-[0_36px_60px_rgba(0,0,0,0.55)] md:aspect-auto md:h-full md:max-h-full md:w-auto md:max-w-full"})}),H.jsxs("div",{className:"flex flex-col justify-center md:order-1 md:flex-1",dir:"rtl",children:[H.jsx(pn.h2,{initial:{x:24,opacity:0},animate:{x:0,opacity:1},transition:{delay:.2,type:"spring",damping:18,stiffness:120},className:"font-cairo font-black leading-tight text-white",style:{fontSize:"clamp(2.25rem, 4.5vw, 4rem)"},children:i.nameAr}),H.jsx("div",{className:"my-5 h-1 w-20 rounded-full bg-brand-yellow"}),i.prices&&i.prices.length>0?H.jsx(mA,{prices:i.prices}):H.jsx(pA,{price:i.price??"—"})]})]})}),mA=({prices:i})=>H.jsx("div",{className:"grid grid-cols-3 gap-3",children:i.map((l,u)=>H.jsxs(pn.div,{initial:{y:16,opacity:0},animate:{y:0,opacity:1},transition:{delay:.25+u*.07,type:"spring",damping:20,stiffness:140},className:"rounded-2xl bg-white/10 p-4 ring-1 ring-white/20 backdrop-blur",children:[H.jsx("div",{className:"font-cairo text-sm font-bold text-brand-yellow md:text-base",children:l.label}),H.jsxs("div",{className:"mt-1 flex items-baseline gap-1 font-cairo",children:[H.jsx("span",{className:"text-3xl font-black text-white md:text-4xl",children:l.value.split(" ")[0]}),H.jsx("span",{className:"text-xs font-bold text-brand-yellow md:text-sm",children:"ر.س"})]})]},l.label))}),pA=({price:i})=>{const[l,...u]=i.split(" ");return H.jsxs(pn.div,{initial:{scale:.9,opacity:0},animate:{scale:1,opacity:1},transition:{delay:.25,type:"spring",damping:18,stiffness:110},className:"flex items-baseline gap-2",children:[H.jsx("span",{className:"font-cairo font-black leading-none text-brand-yellow",style:{fontSize:"clamp(3rem, 7vw, 6rem)"},children:l}),H.jsx("span",{className:"font-cairo text-2xl font-bold text-brand-yellow md:text-4xl",children:u.join(" ")||"ر.س"})]})},yA=()=>H.jsx("header",{className:"flex flex-shrink-0 items-center justify-center px-6 pt-6 md:pt-8",children:H.jsx("div",{className:"grid h-20 w-20 place-items-center overflow-hidden rounded-2xl ring-1 ring-white/15 md:h-24 md:w-24",style:{background:"linear-gradient(135deg, rgba(47,85,196,0.30) 0%, rgba(9,18,54,0.65) 100%)"},children:H.jsx("img",{src:"logo.png",alt:"عَريكة البلدة",className:"h-14 w-auto md:h-16"})})}),gA=()=>H.jsxs("div",{className:"pointer-events-none absolute inset-0 overflow-hidden bg-[#070d24]",children:[H.jsx(pn.div,{className:"absolute h-[55vh] w-[55vw] rounded-full will-change-transform",style:{background:"radial-gradient(circle, rgba(47, 85, 196, 0.45), transparent 65%)",filter:"blur(45px)",transform:"translate3d(0,0,0)"},initial:{x:"15%",y:"5%"},animate:{x:["15%","35%","15%"],y:["5%","15%","5%"]},transition:{duration:50,ease:"easeInOut",repeat:1/0}}),H.jsx(pn.div,{className:"absolute h-[45vh] w-[45vw] rounded-full will-change-transform",style:{background:"radial-gradient(circle, rgba(245, 194, 51, 0.22), transparent 70%)",filter:"blur(50px)",transform:"translate3d(0,0,0)"},initial:{x:"60%",y:"55%"},animate:{x:["60%","40%","60%"],y:["55%","65%","55%"]},transition:{duration:60,ease:"easeInOut",repeat:1/0}}),H.jsx("div",{className:"absolute inset-0",style:{background:"radial-gradient(ellipse at bottom right, rgba(9,18,54,0.6), transparent 60%)"}})]}),vA=({active:i,categories:l,onChange:u})=>H.jsx("div",{className:"mx-auto grid w-full max-w-2xl grid-cols-2 gap-1 rounded-full p-1.5 ring-1 ring-white/10",style:{background:"linear-gradient(180deg, rgba(47,85,196,0.18) 0%, rgba(9,18,54,0.40) 100%)"},role:"tablist",children:l.map(o=>{const c=o.id===i;return H.jsx("button",{role:"tab","aria-selected":c,onClick:()=>u(o.id),className:`rounded-full px-3 py-2.5 text-center font-cairo text-sm font-bold transition-colors duration-200 ${c?"bg-brand-yellow text-brand-blueDeep shadow-[0_4px_14px_rgba(245,194,51,0.35)]":"text-white/80 hover:text-white"}`,children:o.labelAr},o.id)})}),bA=({dishes:i,onSelect:l})=>H.jsxs("section",{className:"mx-auto w-full max-w-7xl",children:[H.jsxs("div",{className:"flex items-center justify-center gap-2 pb-3 sm:gap-4 sm:pb-4",children:[H.jsx("span",{className:"h-px w-8 bg-gradient-to-l from-brand-yellow to-transparent sm:w-16"}),H.jsx(vy,{className:"h-4 w-4 fill-brand-yellow text-brand-yellow sm:h-5 sm:w-5",strokeWidth:2}),H.jsx("h2",{className:"font-cairo text-base font-black tracking-wide text-brand-yellow sm:text-xl md:text-2xl",children:"أصناف مميّزة"}),H.jsx(vy,{className:"h-4 w-4 fill-brand-yellow text-brand-yellow sm:h-5 sm:w-5",strokeWidth:2}),H.jsx("span",{className:"h-px w-8 bg-gradient-to-r from-brand-yellow to-transparent sm:w-16"})]}),H.jsx("div",{className:"grid grid-cols-3 gap-2 sm:gap-3 md:gap-4",children:i.map(u=>H.jsx(SA,{dish:u,onClick:()=>l(u)},u.image))})]}),SA=({dish:i,onClick:l})=>{const u=i.prices&&i.prices.length>1,o=Wg(i);return H.jsxs("button",{onClick:l,className:"group relative flex aspect-[3/4] flex-col overflow-hidden rounded-2xl text-right outline-none transition-transform duration-200 ease-out will-change-transform hover:-translate-y-1 active:scale-[0.98] sm:rounded-3xl",style:{background:"linear-gradient(135deg, rgba(245,194,51,0.18) 0%, rgba(9,18,54,0.65) 60%, rgba(9,18,54,0.65) 100%)",boxShadow:"0 16px 30px rgba(0, 0, 0, 0.45), inset 0 1px 0 rgba(255, 255, 255, 0.12)"},children:[H.jsx("div",{className:"pointer-events-none absolute inset-0 rounded-2xl ring-2 ring-inset ring-brand-yellow/40 sm:rounded-3xl"}),H.jsx("div",{className:"relative flex flex-1 items-center justify-center px-2 pb-1 pt-3 sm:pt-4",children:H.jsx("img",{src:i.image,alt:i.nameAr,decoding:"async",className:"max-h-full max-w-full object-contain drop-shadow-[0_18px_28px_rgba(0,0,0,0.55)]",style:{transform:"scale(1.06)"}})}),H.jsxs("div",{className:"relative flex w-full flex-shrink-0 flex-col items-stretch gap-1 rounded-b-2xl border-t border-white/10 px-3 py-2 sm:flex-row sm:items-center sm:justify-between sm:gap-2 sm:rounded-b-3xl sm:px-3 sm:py-2.5",style:{background:"linear-gradient(180deg, rgba(9, 18, 54, 0.85) 0%, rgba(9, 18, 54, 0.95) 100%)"},children:[H.jsx("h3",{className:"line-clamp-2 min-h-[2.4em] min-w-0 flex-1 text-right font-cairo text-[11px] font-black leading-[1.2] sm:min-h-0 sm:line-clamp-1 sm:text-sm md:text-base",children:i.nameAr}),H.jsxs("div",{className:"flex shrink-0 items-baseline gap-0.5 self-end rounded-md bg-brand-yellow px-1.5 py-0.5 text-brand-blueDeep sm:gap-1 sm:self-auto sm:rounded-lg sm:px-2 sm:py-1",children:[u?H.jsx("span",{className:"font-tajawal text-[8px] font-bold opacity-80 sm:text-[9px]",children:"من"}):null,H.jsx("span",{className:"font-cairo text-sm font-black leading-none sm:text-lg md:text-xl",children:o}),H.jsx("span",{className:"font-cairo text-[8px] font-bold sm:text-[9px]",children:"ر.س"})]})]}),H.jsx("div",{className:"pointer-events-none absolute inset-0 rounded-2xl ring-2 ring-brand-yellow/0 transition-[box-shadow] duration-200 group-hover:ring-brand-yellow/70 sm:rounded-3xl"})]})},TA=()=>{const[i,l]=G.useState("mutabbaq"),[u,o]=G.useState(null),c=G.useMemo(()=>i==="mutabbaq"?kg:Fg,[i]);return G.useEffect(()=>{Pg.forEach(d=>{const h=new Image;h.src=d.image})},[]),H.jsxs("div",{className:"relative h-full w-full overflow-hidden text-white",children:[H.jsx(gA,{}),H.jsxs("div",{className:"relative z-10 flex h-full flex-col",children:[H.jsx(yA,{}),H.jsxs("main",{className:"flex-1 overflow-y-auto px-6 pb-10 pt-4 md:px-10",children:[H.jsx(bA,{dishes:uA,onSelect:o}),H.jsx("div",{className:"mt-8",children:H.jsx(vA,{active:i,categories:lA,onChange:l})}),H.jsx(ap,{mode:"wait",children:H.jsx(pn.div,{initial:{opacity:0,y:8},animate:{opacity:1,y:0},exit:{opacity:0,y:-4},transition:{duration:.22,ease:"easeOut"},className:"mx-auto mt-6 grid w-full max-w-7xl grid-cols-2 gap-4 md:grid-cols-3 lg:grid-cols-4",children:c.map((d,h)=>H.jsx(oA,{dish:d,index:h,startingPrice:Wg(d),onClick:()=>o(d)},d.image))},i)})]})]}),H.jsx(ap,{children:u?H.jsx(dA,{dish:u,onClose:()=>o(null)}):null})]})};V1.createRoot(document.getElementById("root")).render(H.jsx(G.StrictMode,{children:H.jsx(TA,{})}));

diff --git a/web/src/components/FeaturedSection.tsx b/web/src/components/FeaturedSection.tsx
@@ -71,15 +71,14 @@ const FeaturedCard = ({dish, onClick}: {dish: Dish; onClick: () => void}) => {
         />
       </div>
 
-      {/* Bottom strip — flush with the card edges (no horizontal /
-          bottom margin) so the dark blue band runs from the left edge
-          of the card to the right edge. The strip's rounded corners
-          mirror the card's outer radius. */}
+      {/* Bottom strip — explicitly w-full + flush against the card's
+          left, right and bottom edges. Rounded-b matches the card's
+          outer radius so the strip looks like the card's foot. */}
       <div
-        className="relative flex flex-shrink-0 flex-col items-stretch gap-1 rounded-b-2xl border-t border-white/10 px-3 py-2 sm:flex-row sm:items-center sm:justify-between sm:gap-2 sm:rounded-b-3xl sm:px-3 sm:py-2.5"
+        className="relative flex w-full flex-shrink-0 flex-col items-stretch gap-1 rounded-b-2xl border-t border-white/10 px-3 py-2 sm:flex-row sm:items-center sm:justify-between sm:gap-2 sm:rounded-b-3xl sm:px-3 sm:py-2.5"
         style={{
           background:
-            'linear-gradient(180deg, rgba(47,85,196,0.32) 0%, rgba(9,18,54,0.70) 100%)',
+            'linear-gradient(180deg, rgba(9, 18, 54, 0.85) 0%, rgba(9, 18, 54, 0.95) 100%)',
         }}
       >
         <h3 className="line-clamp-2 min-h-[2.4em] min-w-0 flex-1 text-right font-cairo text-[11px] font-black leading-[1.2] sm:min-h-0 sm:line-clamp-1 sm:text-sm md:text-base">

diff --git a/docs/index.html b/docs/index.html
@@ -13,8 +13,8 @@
       href="https://fonts.googleapis.com/css2?family=Cairo:wght@400;700;900&family=Tajawal:wght@400;500;700&display=swap"
       rel="stylesheet"
     />
-    <script type="module" crossorigin src="./assets/index-0TNRcDmV.js"></script>
-    <link rel="stylesheet" crossorigin href="./assets/index-yAM1rfZ3.css">
+    <script type="module" crossorigin src="./assets/index-Cw_ZRFd0.js"></script>
+    <link rel="stylesheet" crossorigin href="./assets/index-ChkNGgoA.css">
   </head>
   <body class="overscroll-none antialiased">
     <div id="root"></div>
